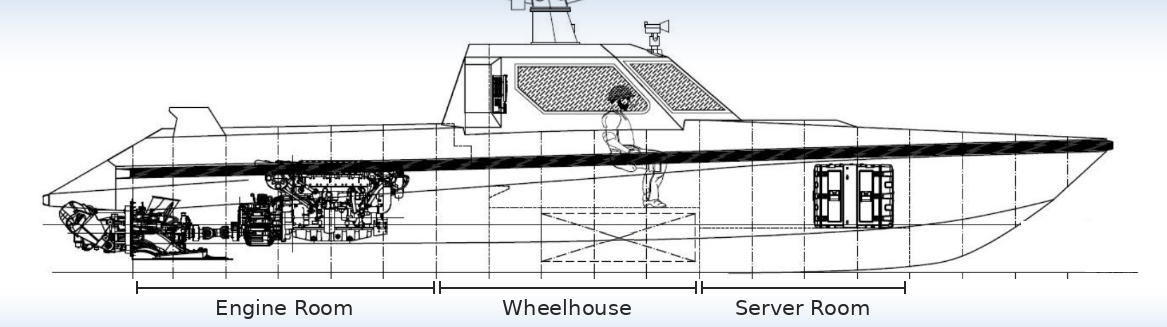
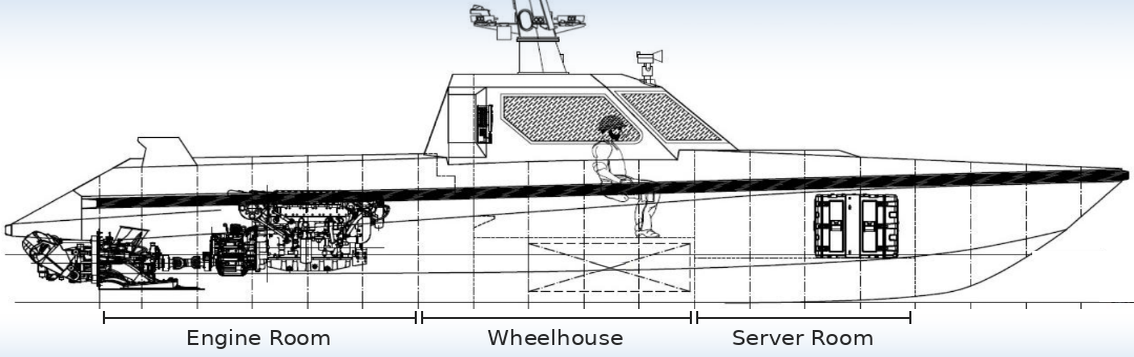
Update GA image

Changed region(s): [[0.0, 0.0, 1.0, 0.9786], [0.1543, 0.3058, 0.1852, 0.3364]]

diff --git a/components/VesselGeneralArrangementPopup.qml b/components/VesselGeneralArrangementPopup.qml
@@ -49,7 +49,7 @@ Popup {
             anchors.fill: parent
             source: "qrc:/images/vessel_ga.png"
             fillMode: Image.PreserveAspectCrop
-            opacity: 0.4
+            opacity: 0.6
         }
     }
 
